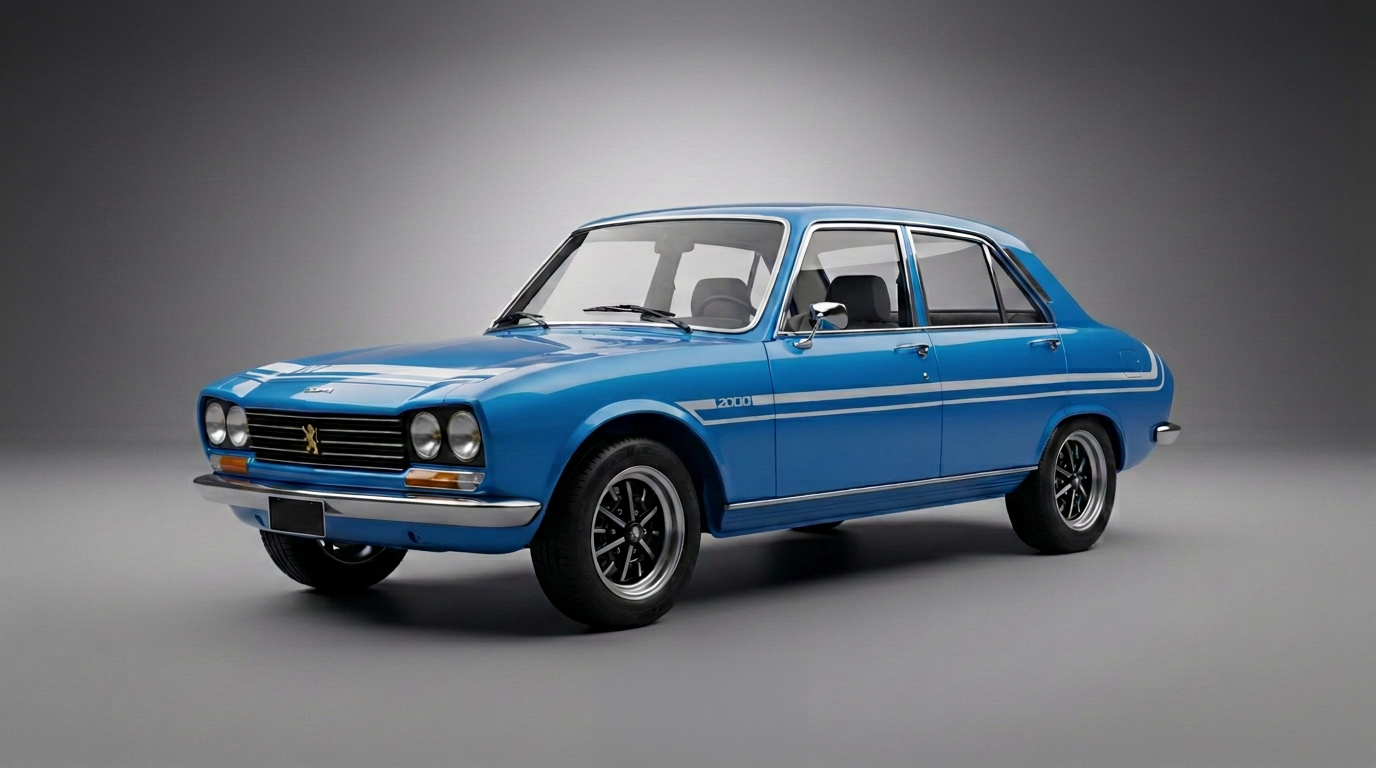
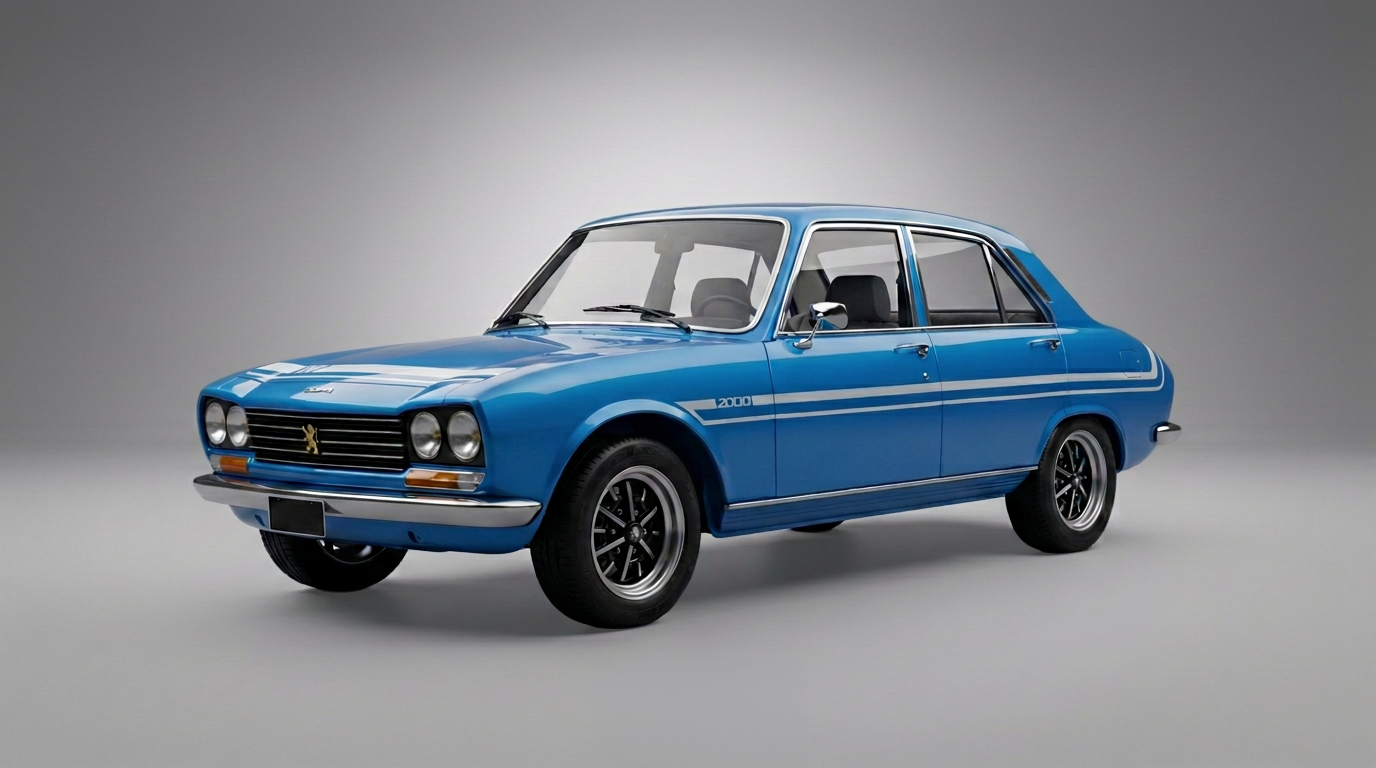
feat: el 911, el Falcon Sprint, y un solo 607
Paint for two more cars and a new colour word. The 911 Carrera 3.2 comes
in five, the Falcon Sprint in two, and both renders are named after the
car with its year, so both declare a `photo` stem rather than being
renamed to fight their ids. The 504's two are re-renders over the files
that were already there.

Bordo is the first colour in the catalogue that is not one of the eleven
already translated, and colorName falls back to the English slug when a
colour is missing from NAMES -- so a forgotten entry ships a card reading
"bordo" between "Negro" and "Blanco", and nothing fails. The catalogue
is now the test: every colour any car declares has to have a Spanish
name. Checked by deleting the bordo line and watching it fail.

One 607, the facelift, at Siro's call. The pair was 4 hp and 20 kg
apart, which bought two rows on the forecourt and no decision for the
player, and the render settles which one stays: that is the phase 2
nose, and a card cannot say 2000 over it. The id keeps its -f2 because
it is save data, and a garage should not empty to make a string prettier.

diff --git a/services/catalog/cars.ts b/services/catalog/cars.ts
@@ -87,9 +87,9 @@ export const CARS: CarSpec[] = [
    * three copies of the F-100 under different driver names.
    *
    * Figures are the published ones I am confident in; where a source range
-   * exists I have said so on the line rather than picking silently. No photos
-   * for these yet, and no marque logo for Dodge -- the card renders without
-   * them.
+   * exists I have said so on the line rather than picking silently. The Torino
+   * is still waiting on photos and Dodge on a marque logo -- the card renders
+   * without either.
    */
   {
     id: "renault-torino-zx",
@@ -119,6 +119,8 @@ export const CARS: CarSpec[] = [
     nm: 300,
     rarity: "uncommon",
     blurb: "Sedán deportivo",
+    colors: ["blue", "orange"],
+    photo: "ford-falcon-sprint-73",
     logo: "/ford-logo.png",
   },
   {
@@ -382,6 +384,8 @@ export const CARS: CarSpec[] = [
     nm: 284,
     rarity: "epic",
     blurb: "Deportivo",
+    colors: ["black", "bordo", "red", "white", "yellow"],
+    photo: "porsche-911-carrera-32-87",
   },
   {
     id: "honda-nsx",
@@ -433,35 +437,21 @@ export const CARS: CarSpec[] = [
     logo: "/ferrari-logo.png",
   },
   /*
-   * Both phases of the 607 V6, at Siro's call: he wants the variety even
-   * where the change is small. They are 4 hp and 20 kg apart, so expect them
-   * to rate within a point or two and to share a grid happily -- that is the
-   * cost of the pair, and it is a deliberate one.
+   * One 607, the facelift. Both phases used to be here for the variety, but
+   * they were 4 hp and 20 kg apart and rated within a point of each other, so
+   * the pair bought two rows on the forecourt and no decision for the player.
+   * The photos settled it: the render is the phase 2 body -- wide chrome
+   * grille, restyled lights -- and a card cannot say 2000 over that nose.
    *
-   * Names kept to "607 V6" and "607 V6 FII" because the card title is a flex
-   * row and "607 V6 ES9 Fase I" wraps and shoves the class badge to a second
-   * line. The years on the card do most of the telling apart anyway.
+   * The id keeps its -f2 because it is save data. A player who bought this car
+   * has `peugeot-607-v6-f2` in their garage, and renaming it now would empty
+   * that garage to make an internal string prettier. `model` is what anyone
+   * reads, and it is plain "607 V6" now that there is nothing to tell it from.
    */
-  {
-    id: "peugeot-607-v6-f1",
-    make: "Peugeot",
-    model: "607 V6 Fase 1",
-    year: 2000,
-    kW: 154, // ES9J4S 3.0 V6, 207 hp
-    kg: 1580,
-    layout: "FWD",
-    cls: "saloon",
-    topKph: 235,
-    zeroTo100: 8.5,
-    nm: 285,
-    rarity: "uncommon",
-    blurb: "Sedán ejecutivo",
-    logo: "/peugeot-logo.png",
-  },
   {
     id: "peugeot-607-v6-f2",
     make: "Peugeot",
-    model: "607 V6 Fase 2",
+    model: "607 V6",
     year: 2005,
     kW: 157, // ES9A 3.0 V6, 211 hp -- the facelift
     kg: 1600,
@@ -472,6 +462,8 @@ export const CARS: CarSpec[] = [
     nm: 285,
     rarity: "uncommon",
     blurb: "Sedán ejecutivo",
+    colors: ["black", "bordo", "gray", "white"],
+    photo: "peugeot-607-v6-phase2",
     logo: "/peugeot-logo.png",
   },
 ];

diff --git a/services/progression/paint.test.ts b/services/progression/paint.test.ts
@@ -24,8 +24,22 @@ describe("which colours a car comes in", () => {
   it("names them in Spanish, and falls back to the slug", () => {
     expect(colorName("light-blue")).toBe("Celeste");
     expect(colorName("dark-blue")).toBe("Azul oscuro");
+    expect(colorName("bordo")).toBe("Bordó");
     expect(colorName("yellow")).toBe("Amarillo");
     expect(colorName("chartreuse")).toBe("chartreuse");
+  });
+
+  /*
+   * The fallback above is a safety net, not a licence. A colour with no entry
+   * in NAMES renders its English slug on the card -- "bordo" next to "Negro"
+   * and "Blanco" -- and nothing else in the codebase notices, because a slug
+   * IS a valid string. So the catalogue is the test: every colour any car
+   * declares has to have been translated.
+   */
+  it("has a Spanish name for every colour the catalogue actually uses", () => {
+    const used = [...new Set(CARS.flatMap((c) => colorsOf(c)))].sort();
+    const untranslated = used.filter((k) => colorName(k) === k);
+    expect(untranslated, `add these to NAMES in paint.ts`).toEqual([]);
   });
 });
 

diff --git a/services/progression/paint.ts b/services/progression/paint.ts
@@ -25,6 +25,7 @@ const NAMES: Record<string, string> = {
   "dark-blue": "Azul oscuro",
   silver: "Gris plata",
   gray: "Gris",
+  bordo: "Bordó",
   yellow: "Amarillo",
   orange: "Naranja",
   green: "Verde",
